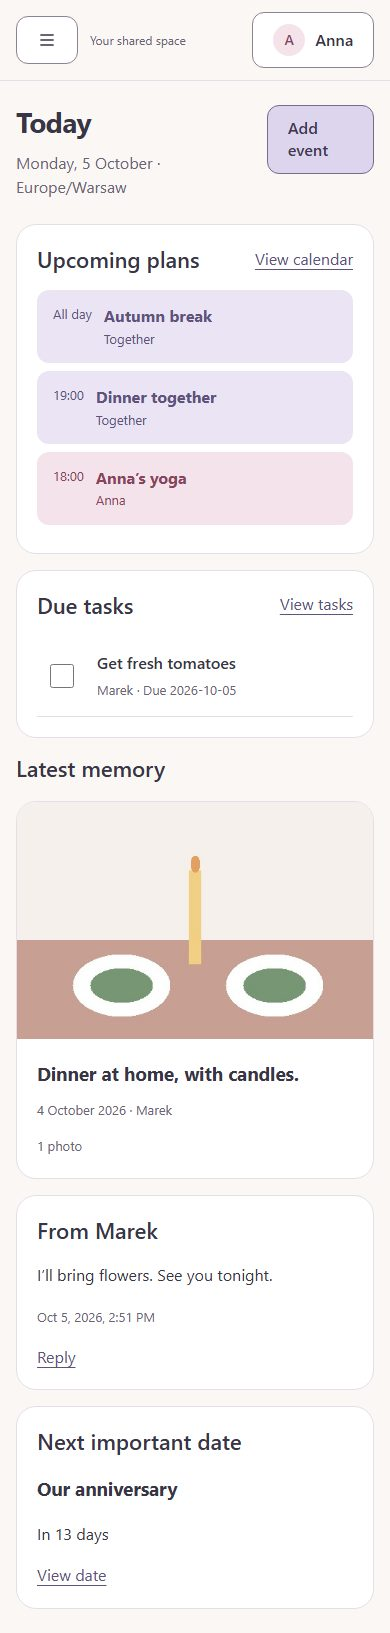
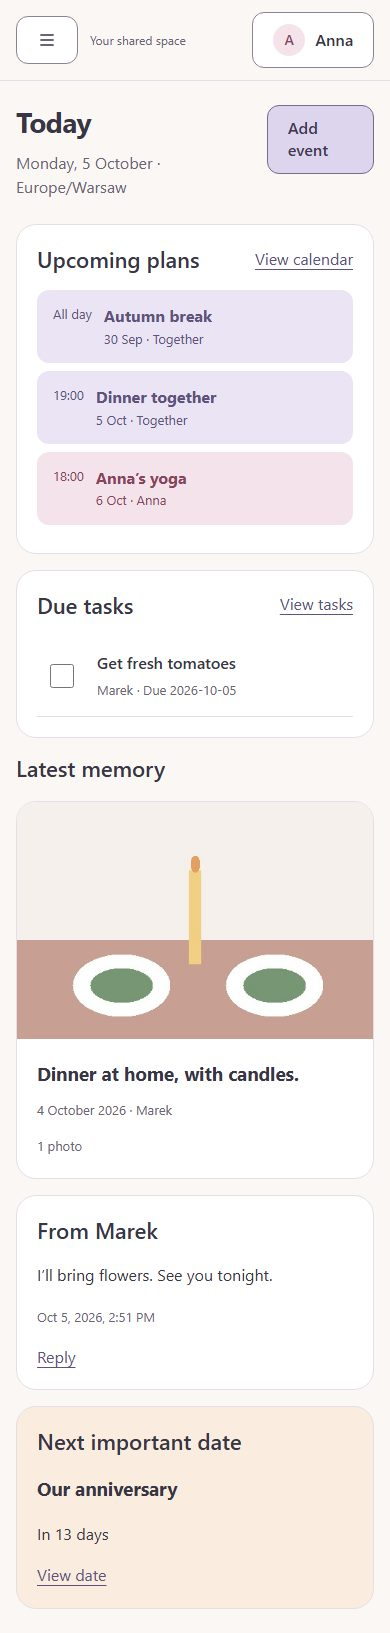
fix: complete portal verification corrections

Changed region(s): [[0.0308, 0.8432, 0.9538, 0.9994], [0.2462, 0.2498, 0.3385, 0.3123], [0.2769, 0.1874, 0.3692, 0.2186]]

diff --git a/apps/web/src/app/router.tsx b/apps/web/src/app/router.tsx
@@ -1,37 +1,9 @@
-import { SettingsPage, ProfileSettingsPage, PairSettingsPage, AccountSettingsPage } from '../features/settings';
-import { NotificationsPage, PreferencesPage } from '../features/notifications';
-import { MemoriesPage } from '../features/memories/pages/MemoriesPage';
-import { MemoryDetailPage } from '../features/memories/pages/MemoryDetailPage';
-import { MemoryFormPage } from '../features/memories/pages/MemoryFormPage';
-import { TasksPage } from '../features/tasks/pages/TasksPage';
-import { MessagesPage } from '../features/messages';
-import { TaskDetailPage } from '../features/tasks/pages/TaskDetailPage';
-import { TaskFormPage } from '../features/tasks/pages/TaskFormPage';
-import { ListManagerPage } from '../features/tasks/pages/ListManagerPage';
-import { ListDetailPage } from '../features/tasks/pages/ListDetailPage';
-import { IdeasPage } from '../features/calendar/ideas/pages/IdeasPage';
-import { IdeaDetailPage } from '../features/calendar/ideas/pages/IdeaDetailPage';
-import { IdeaFormPage } from '../features/calendar/ideas/pages/IdeaFormPage';
-import { TodayPage } from '../features/today/pages/TodayPage';
-import { CalendarPage } from '../features/calendar/pages/CalendarPage';
-import { EventDetailPage } from '../features/calendar/pages/EventDetailPage';
-import { EventFormPage } from '../features/calendar/pages/EventFormPage';
-import { Fragment, useEffect, type ReactNode } from 'react';
+import { Fragment, lazy, Suspense, useEffect, type ReactNode } from 'react';
 import { createBrowserRouter, Navigate, Outlet, useLocation, useParams, useSearchParams } from 'react-router-dom';
 import { SessionProvider, useSession } from './SessionProvider';
 import { AppShell } from './AppShell';
 import { entryIntent, signOut } from '../features/auth';
 import { inviteTokenSchema } from '../features/pair';
-import { WelcomePage } from '../features/auth/pages/WelcomePage';
-import { EmailPage } from '../features/auth/pages/EmailPage';
-import { VerifyPage } from '../features/auth/pages/VerifyPage';
-import { ProfilePage } from '../features/auth/pages/ProfilePage';
-import { StartPage } from '../features/pair/pages/StartPage';
-import { InvitePage } from '../features/pair/pages/InvitePage';
-import { JoinPage } from '../features/pair/pages/JoinPage';
-import { WaitingPage } from '../features/pair/pages/WaitingPage';
-import { PairWelcomePage } from '../features/pair/pages/WelcomePage';
-import { EndedPage } from '../features/pair/pages/EndedPage';
 import { Status } from '../components/ui/Status';
 import { Button } from '../components/ui/Button';
 import { z } from 'zod';
@@ -39,6 +11,38 @@ import { RouteErrorPage, RouteFailureBoundary } from './RouteErrorPage';
 import { NotFoundPage } from './NotFoundPage';
 import { UnsavedChangesGuard } from '../lib/drafts';
 import { useNetworkStatus } from '../lib/network';
+const SettingsPage = lazy(() => import('../features/settings').then(module => ({ default: module.SettingsPage })));
+const ProfileSettingsPage = lazy(() => import('../features/settings').then(module => ({ default: module.ProfileSettingsPage })));
+const PairSettingsPage = lazy(() => import('../features/settings').then(module => ({ default: module.PairSettingsPage })));
+const AccountSettingsPage = lazy(() => import('../features/settings').then(module => ({ default: module.AccountSettingsPage })));
+const NotificationsPage = lazy(() => import('../features/notifications').then(module => ({ default: module.NotificationsPage })));
+const PreferencesPage = lazy(() => import('../features/notifications').then(module => ({ default: module.PreferencesPage })));
+const MemoriesPage = lazy(() => import('../features/memories/pages/MemoriesPage').then(module => ({ default: module.MemoriesPage })));
+const MemoryDetailPage = lazy(() => import('../features/memories/pages/MemoryDetailPage').then(module => ({ default: module.MemoryDetailPage })));
+const MemoryFormPage = lazy(() => import('../features/memories/pages/MemoryFormPage').then(module => ({ default: module.MemoryFormPage })));
+const TasksPage = lazy(() => import('../features/tasks/pages/TasksPage').then(module => ({ default: module.TasksPage })));
+const MessagesPage = lazy(() => import('../features/messages/pages/MessagesPage').then(module => ({ default: module.MessagesPage })));
+const TaskDetailPage = lazy(() => import('../features/tasks/pages/TaskDetailPage').then(module => ({ default: module.TaskDetailPage })));
+const TaskFormPage = lazy(() => import('../features/tasks/pages/TaskFormPage').then(module => ({ default: module.TaskFormPage })));
+const ListManagerPage = lazy(() => import('../features/tasks/pages/ListManagerPage').then(module => ({ default: module.ListManagerPage })));
+const ListDetailPage = lazy(() => import('../features/tasks/pages/ListDetailPage').then(module => ({ default: module.ListDetailPage })));
+const IdeasPage = lazy(() => import('../features/calendar/ideas/pages/IdeasPage').then(module => ({ default: module.IdeasPage })));
+const IdeaDetailPage = lazy(() => import('../features/calendar/ideas/pages/IdeaDetailPage').then(module => ({ default: module.IdeaDetailPage })));
+const IdeaFormPage = lazy(() => import('../features/calendar/ideas/pages/IdeaFormPage').then(module => ({ default: module.IdeaFormPage })));
+const TodayPage = lazy(() => import('../features/today/pages/TodayPage').then(module => ({ default: module.TodayPage })));
+const CalendarPage = lazy(() => import('../features/calendar/pages/CalendarPage').then(module => ({ default: module.CalendarPage })));
+const EventDetailPage = lazy(() => import('../features/calendar/pages/EventDetailPage').then(module => ({ default: module.EventDetailPage })));
+const EventFormPage = lazy(() => import('../features/calendar/pages/EventFormPage').then(module => ({ default: module.EventFormPage })));
+const WelcomePage = lazy(() => import('../features/auth/pages/WelcomePage').then(module => ({ default: module.WelcomePage })));
+const EmailPage = lazy(() => import('../features/auth/pages/EmailPage').then(module => ({ default: module.EmailPage })));
+const VerifyPage = lazy(() => import('../features/auth/pages/VerifyPage').then(module => ({ default: module.VerifyPage })));
+const ProfilePage = lazy(() => import('../features/auth/pages/ProfilePage').then(module => ({ default: module.ProfilePage })));
+const StartPage = lazy(() => import('../features/pair/pages/StartPage').then(module => ({ default: module.StartPage })));
+const InvitePage = lazy(() => import('../features/pair/pages/InvitePage').then(module => ({ default: module.InvitePage })));
+const JoinPage = lazy(() => import('../features/pair/pages/JoinPage').then(module => ({ default: module.JoinPage })));
+const WaitingPage = lazy(() => import('../features/pair/pages/WaitingPage').then(module => ({ default: module.WaitingPage })));
+const PairWelcomePage = lazy(() => import('../features/pair/pages/WelcomePage').then(module => ({ default: module.PairWelcomePage })));
+const EndedPage = lazy(() => import('../features/pair/pages/EndedPage').then(module => ({ default: module.EndedPage })));
 function destination(session: ReturnType<typeof useSession>) {
   if (session.status !== 'authenticated') return '/welcome';
   if (!session.account) return '/profile/setup';
@@ -72,7 +76,7 @@ function Frame() {
 function Root() { return <SessionProvider><UnsavedChangesGuard /><Frame /></SessionProvider>; }
 function Page({ title, children }: { title: string; children: ReactNode }) {
   useEffect(() => { document.title = title + ' · Deseo'; }, [title]);
-  return <>{children}</>;
+  return <Suspense fallback={<Status>Loading page…</Status>}>{children}</Suspense>;
 }
 // Capture the invitation before router creation, then remove it from browser history.
 // No analytics or logging receives the secret.

diff --git a/apps/web/tests/gateway-origin.spec.ts b/apps/web/tests/gateway-origin.spec.ts
@@ -1,0 +1,39 @@
+import { test, expect } from '@playwright/test';
+import { createEntryFixture, cleanupEntryFixture, entryFixtureClient } from './support/entry-fixtures';
+
+// Importance 100: real gateway requests must reject foreign origins before authenticated action work.
+test('gateway rejects foreign origins for a valid actor and permits native requests', async () => {
+  const fixture = await createEntryFixture('unpaired');
+  try {
+    const client = await entryFixtureClient(fixture.email);
+    const session = await client.auth.getSession();
+    expect(session.error).toBeNull();
+    const token = session.data.session!.access_token;
+    const mailbox = async () => {
+      const response = await fetch('http://127.0.0.1:55724/api/v1/search?query=' + encodeURIComponent('to:' + fixture.email));
+      expect(response.ok).toBe(true);
+      return (await response.json()).messages?.length ?? 0;
+    };
+    const before = await mailbox();
+    for (const origin of ['https://unknown.example.test', 'null']) {
+      const response = await fetch('http://127.0.0.1:55721/functions/v1/verify-sensitive-action', {
+        method: 'POST', headers: { Origin: origin, Authorization: 'Bearer ' + token, 'Content-Type': 'application/json' },
+        body: JSON.stringify({ action: 'end_pair' }),
+      });
+      expect(response.status).toBe(403);
+      expect(response.headers.get('cache-control')).toBe('no-store');
+      expect(await response.json()).toEqual({ ok: false, error: { code: 'FORBIDDEN' } });
+      expect(await mailbox()).toBe(before);
+    }
+    const native = await fetch('http://127.0.0.1:55721/functions/v1/verify-sensitive-action', {
+      method: 'POST', headers: { Authorization: 'Bearer ' + token, 'Content-Type': 'application/json' },
+      body: JSON.stringify({ action: 'end_pair' }),
+    });
+    expect(native.status).toBe(200);
+    expect(native.headers.get('cache-control')).toBe('no-store');
+    expect((await native.json()).ok).toBe(true);
+    await expect.poll(mailbox).toBe(before + 1);
+  } finally {
+    await cleanupEntryFixture(fixture);
+  }
+});

diff --git a/apps/web/src/features/calendar/components/EventRow.tsx b/apps/web/src/features/calendar/components/EventRow.tsx
@@ -2,9 +2,10 @@ import { DateTime } from 'luxon';
 import { Link } from 'react-router-dom';
 import type { Event, Owner } from '@deseo/domain/calendar';
 export type OwnerNames = Record<Owner, string>;
-export function EventRow({ event, names, timezone }: { event: Event; names: OwnerNames; timezone: string }) {
+export function EventRow({ event, names, timezone, showDate = false }: { event: Event; names: OwnerNames; timezone: string; showDate?: boolean }) {
   const time = event.temporal.kind === 'allDay' ? 'All day' : DateTime.fromISO(event.temporal.startsAt).setZone(timezone).toFormat('HH:mm');
+  const date = event.temporal.kind === 'allDay' ? DateTime.fromISO(event.temporal.startDate) : DateTime.fromISO(event.temporal.startsAt).setZone(timezone);
   return <Link className={'event-row owner-' + event.owner} to={'/events/' + event.id}>
-    <span className="event-row-time">{time}</span><span className="event-row-content"><strong>{event.title}</strong><span>{names[event.owner]}{event.visibility === 'private' ? ' · Private' : ''}</span></span>
+    <span className="event-row-time">{time}</span><span className="event-row-content"><strong>{event.title}</strong><span>{showDate ? date.setLocale('en').toFormat('d LLL') + ' · ' : ''}{names[event.owner]}{event.visibility === 'private' ? ' · Private' : ''}</span></span>
   </Link>;
 }

diff --git a/apps/web/tests/today.spec.ts b/apps/web/tests/today.spec.ts
@@ -21,6 +21,8 @@ test('Today limits plans and tasks and shows the important date', async ({ page 
     await page.goto('/today');
     await expect(page.getByRole('heading', { name: 'Today', exact: true })).toBeVisible();
     await expect(page.getByTestId('today-events').getByRole('link').filter({ has: page.locator('.event-row-content') })).toHaveCount(3);
+    await expect(page.getByTestId('today-events').getByText('5 Oct · Together', { exact: true })).toBeVisible();
+    await expect(page.getByTestId('today-events').getByText('6 Oct · Anna', { exact: true })).toBeVisible();
     await expect(page.getByTestId('today-tasks').getByRole('article')).toHaveCount(3);
     await expect(page.getByTestId('today-tasks').getByRole('checkbox', { checked: true })).toHaveCount(0);
     await expect(page.getByRole('heading', { name: 'Our anniversary', exact: true })).toBeVisible();

diff --git a/apps/web/src/features/today/pages/TodayPage.tsx b/apps/web/src/features/today/pages/TodayPage.tsx
@@ -48,6 +48,7 @@ export function TodayPage() {
             key={event.id + (event.temporal.kind === 'allDay' ? event.temporal.startDate : event.temporal.startsAt)}
             event={event}
             names={names}
+            showDate
             timezone={zone} />) : <p>Nothing planned for the next seven days.</p>}
         </section>
         <section className="card" data-testid="today-tasks">

diff --git a/apps/web/src/features/messages/index.ts b/apps/web/src/features/messages/index.ts
@@ -2,4 +2,3 @@ export { listMessages, getUnreadCount, reconcileMessageSends, messageKeys, useMe
 export { sendMessage, deleteMessage, setReadCursor } from './commands';
 export { pinMessage, unpinMessage, listPinnedNotes } from './notes';
 export { NoteCard } from './components/NoteCard';
-export { MessagesPage } from './pages/MessagesPage';
